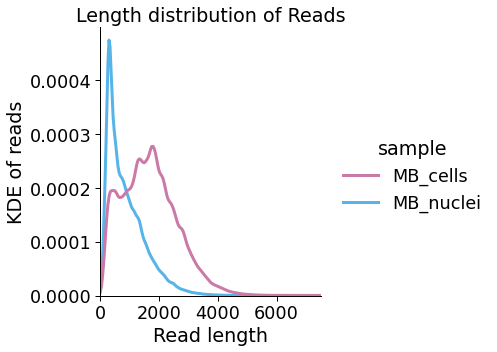
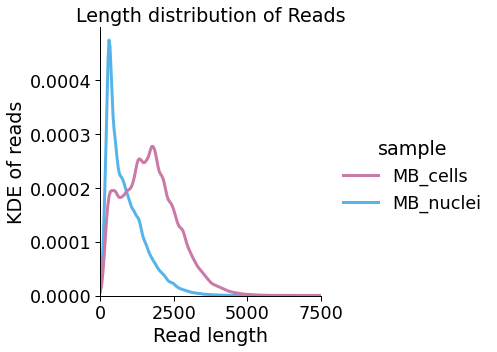
updated figure 1

Changed region(s): [[0.2716, 0.8438, 0.6942, 0.9062]]

diff --git a/scripts/plotting.py b/scripts/plotting.py
@@ -127,7 +127,8 @@ def plot_read_len_kde(df, hue, c_dict, order, opref, common_norm=True):
                  palette=c_dict, kind='kde', hue_order=order, linewidth=3, 
                  common_norm=common_norm)
     ax.set(xlabel='Read length', ylabel='KDE of reads',
-          title='Length distribution of Reads', xlim=(0,7500))
+          title='Length distribution of Reads', xlim=(0,7500),
+          xticks=[0, 2500, 5000, 7500])
     plt.savefig('{}_read_length_kde.pdf'.format(opref), dpi=300, bbox_inches='tight')
     
 # plot proportion of reads per nov. cat per cell

diff --git a/figure_1/README.md b/figure_1/README.md
@@ -195,6 +195,7 @@ df = df.loc[df.transcript_novelty != 'Genomic']
 c_dict, order = get_2_tech_colors()
 plot_read_len_kde(df, 'tech', c_dict, order, opref, common_norm=False)
 ```
+
     
 ![png](figures/output_15_1.png)
     
@@ -281,4 +282,3 @@ plot_transcript_novelty(df, opref, c_dict, order, title='Filtered',
     
 ![png](figures/output_21_1.png)
     
-
